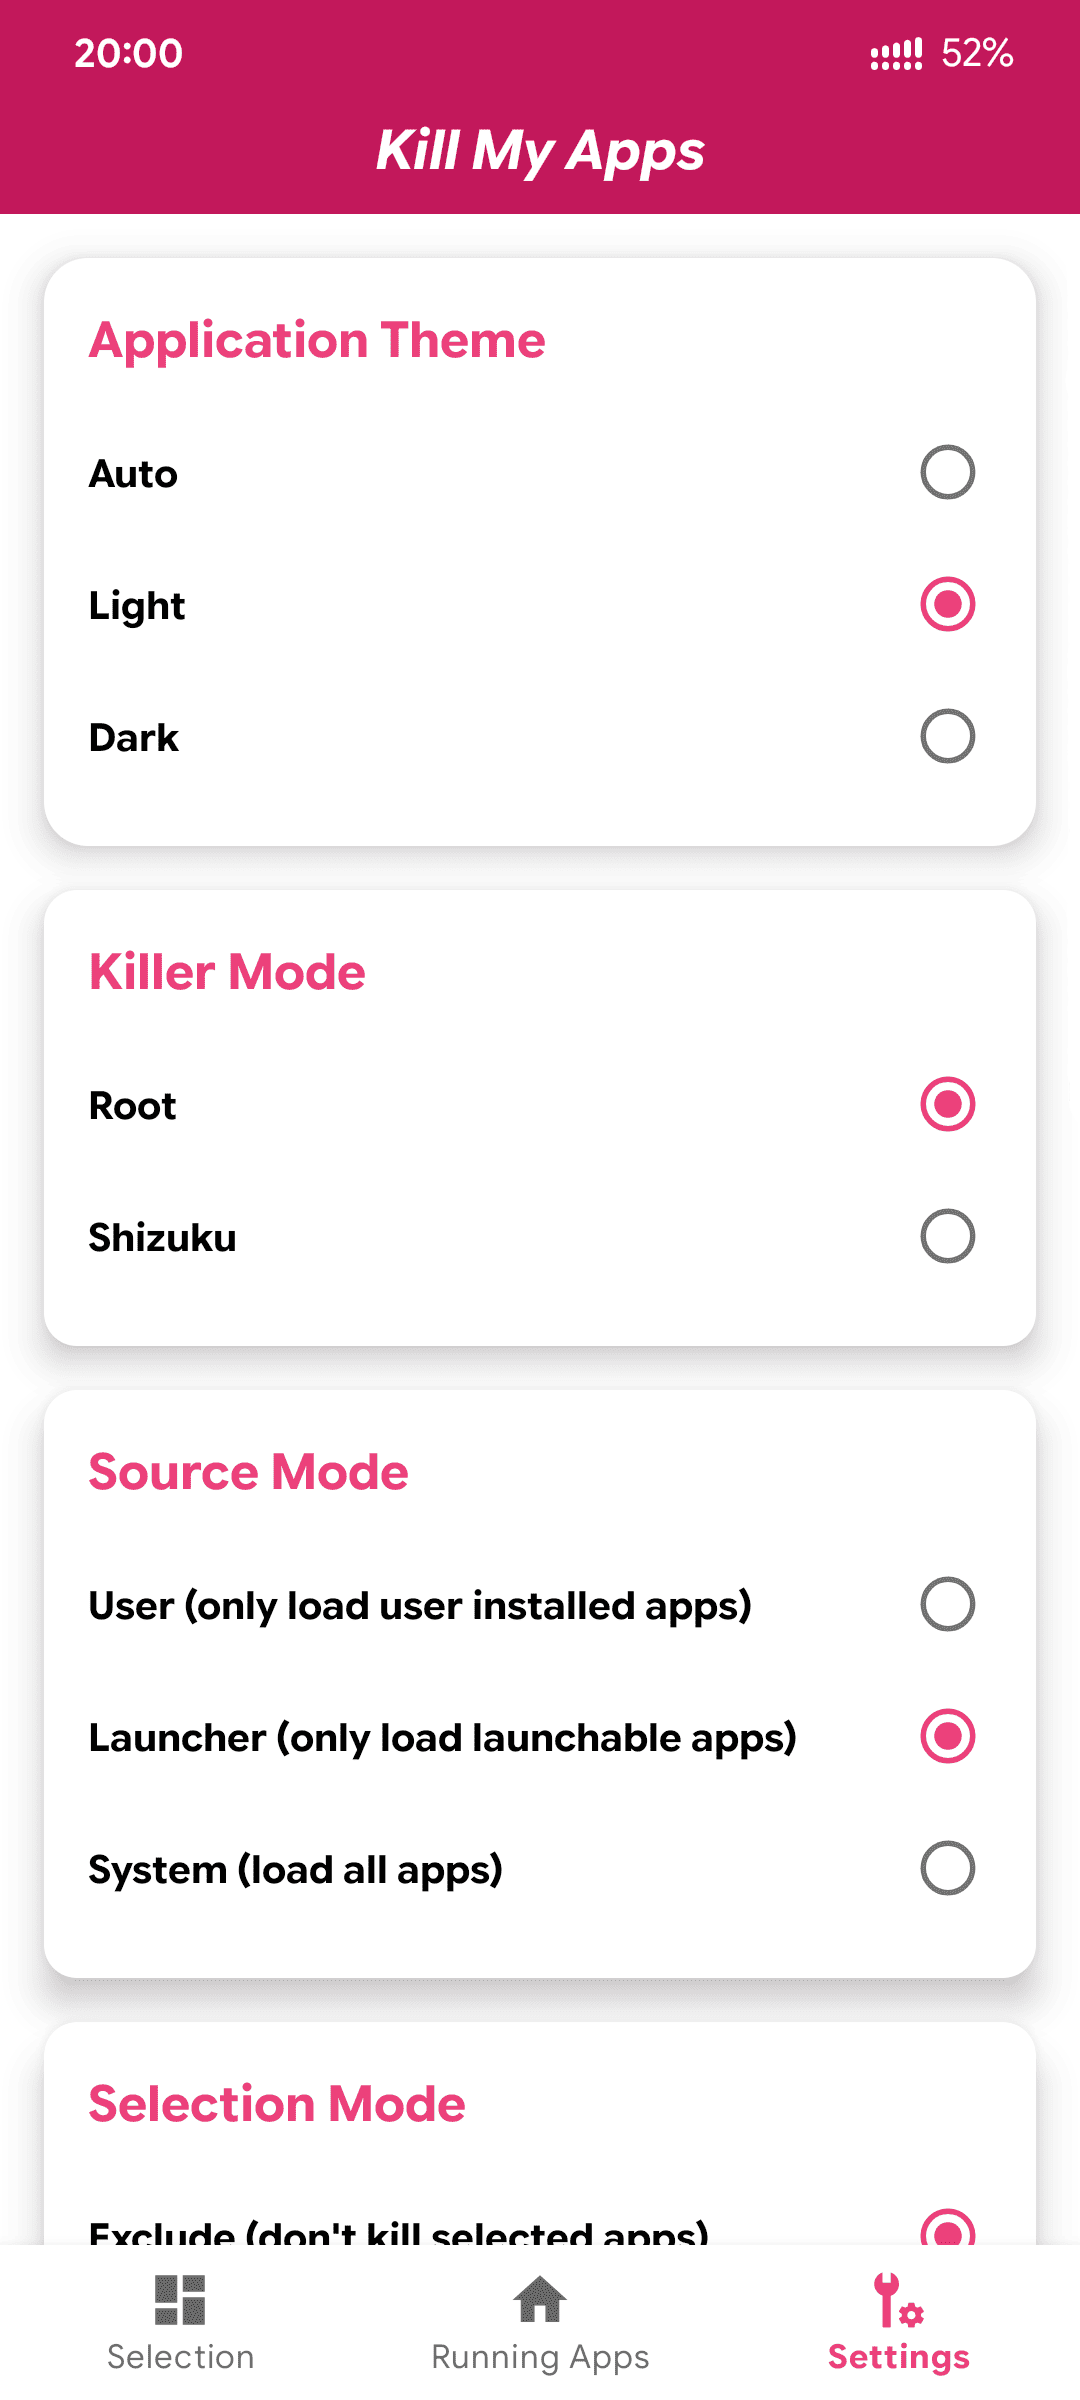
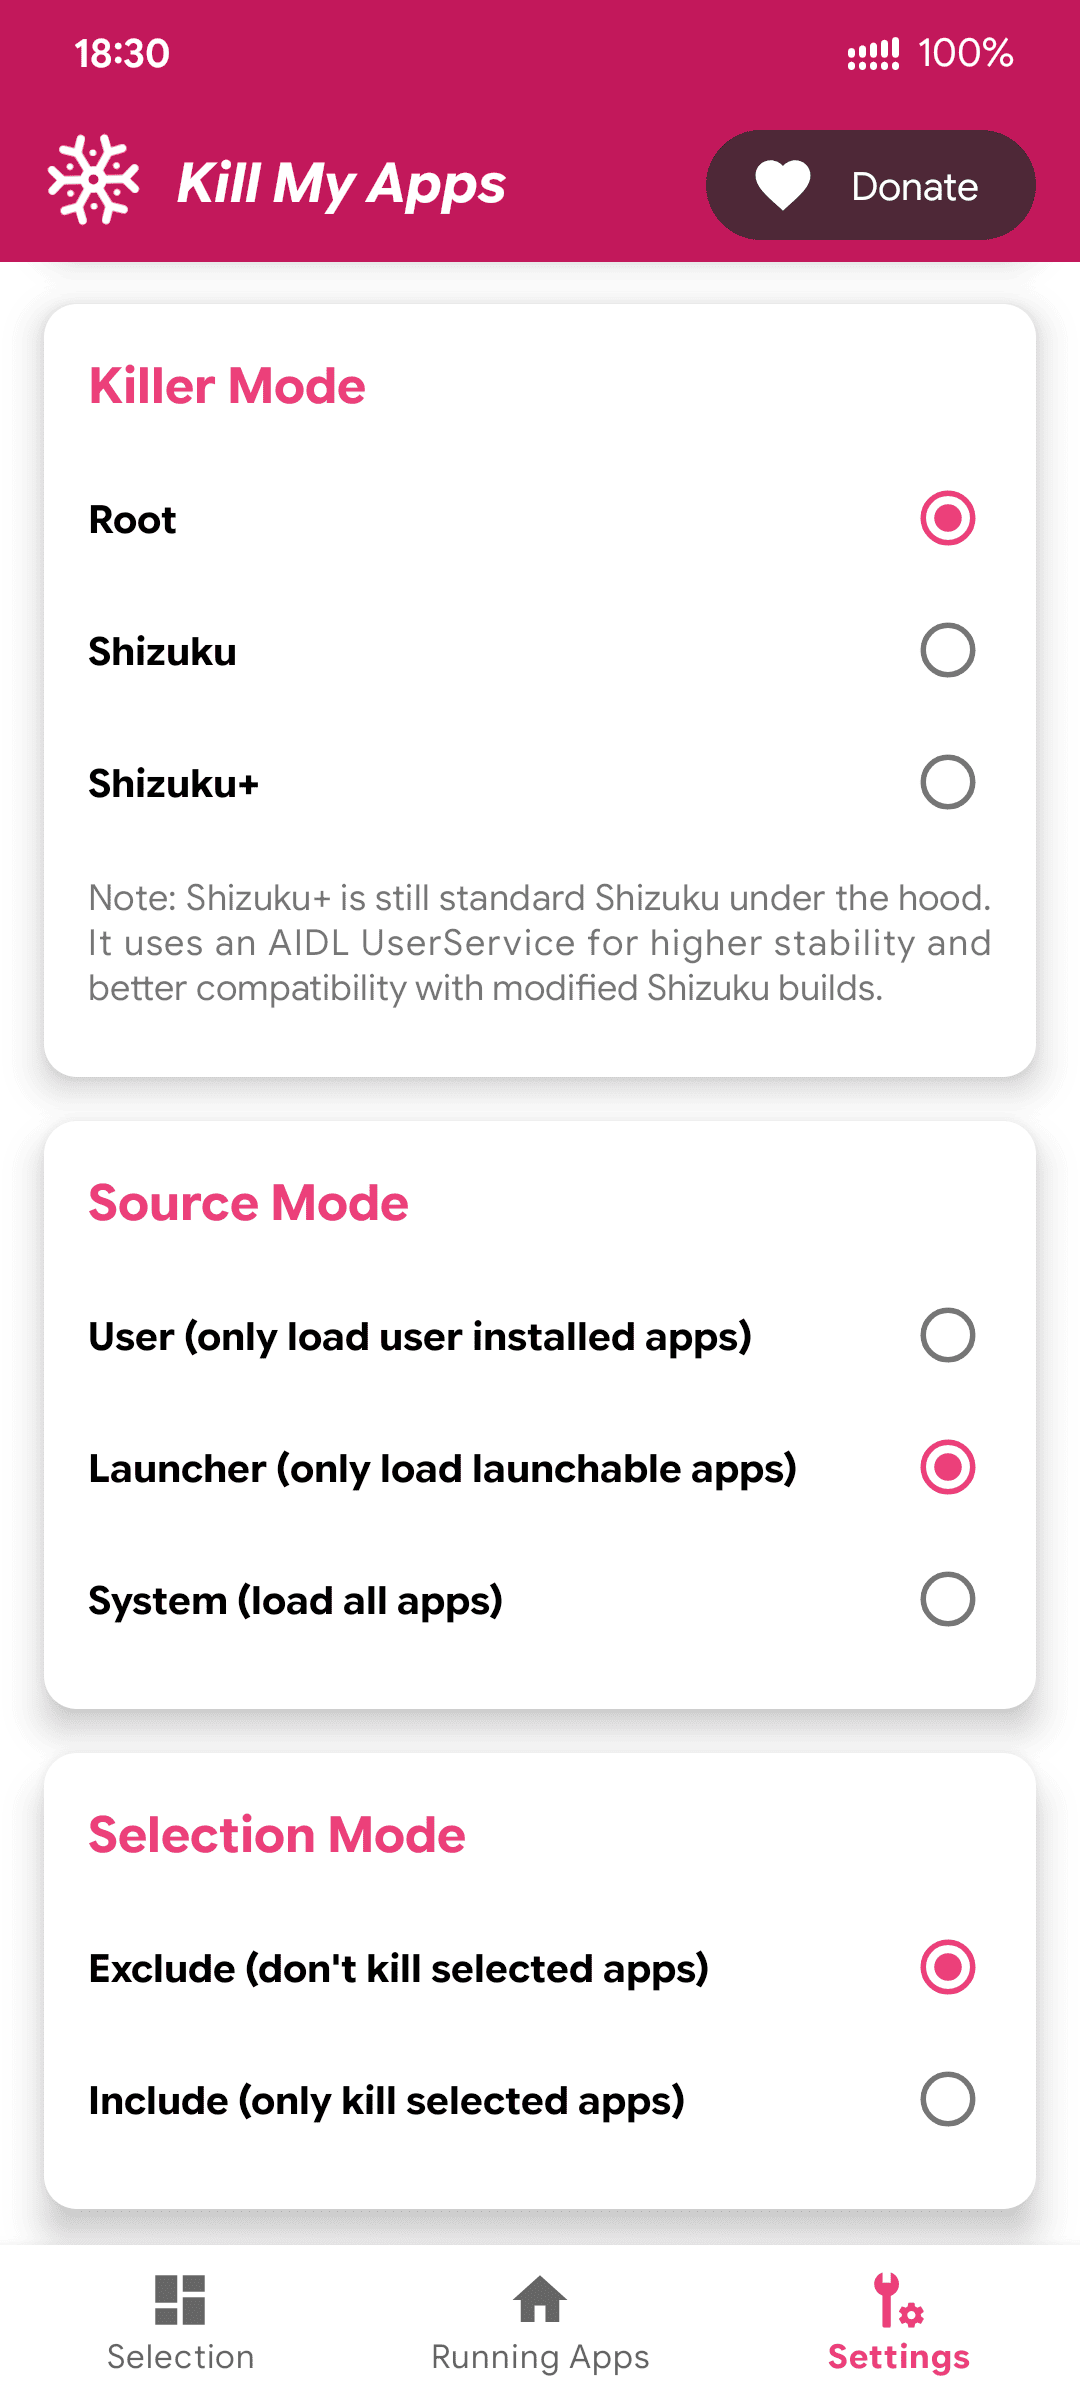
docs(readme): update README and screenshots for v1.5 release

Changed region(s): [[0.0, 0.0, 1.0, 0.625], [0.0306, 0.6562, 0.9778, 0.9375], [0.0611, 0.0, 0.1833, 0.0312]]

diff --git a/README.md b/README.md
@@ -12,7 +12,7 @@
 
 # ❄ Kill My Apps
 
-Kill My Apps is a lightweight utility designed to terminate background processes, helping extend battery life, improve gaming performance, and free up system resources. **It also helps reduce intrusive notifications, unwanted background activity, tracking and telemetry**.
+KillMyApps is a lightweight utility designed to terminate background processes, helping extend battery life, improve gaming performance, and free up system resources. **It also helps reduce intrusive notifications, unwanted background activity, tracking and telemetry**.
 
 
 > [!IMPORTANT]
@@ -22,17 +22,19 @@ Kill My Apps is a lightweight utility designed to terminate background processes
 ## ✨ Features
 
 - ⚡ **One-Tap Kill**: Terminate all running apps instantly with a single tap.
-- 🫧 **Quick Settings Tile**: Kill running apps directly from your notification panel without even opening the app.
 - 🔰 **Killer Mode**: Support Root and Shizuku for an automated app termination process.
 - 🛡 **Source Mode**: Categorize apps by User, Launchable, or System processes, backed by customizable critical app protections.
 - 🔎 **Selection Mode**: Flexible app targeting between Exclude and Include modes.
+- ⏰ **Auto Killer**: Schedule automatic process termination when your screen turns off (with customizable delay) or at a fixed daily time.
+- 🫧 **Quick Settings Tile**: Kill running apps directly from your notification panel without even opening the app.
+- 🧩 **Home Screen Widgets**: Instantly terminate background processes right from your home screen using app widgets.
 - 🔋 **Save Battery**: Reduce battery usage by stopping unnecessary background activities.
 - 🚀 **Boost Performance**: Free up RAM and CPU for high-demand tasks like gaming.
 - 🔒 **Enhance Privacy**: Eliminate unnecessary background activity, tracking and telemetry.
 - 🍃 **Clean UI**: Simple and intuitive Material Design interface.
 
 
-  ## 📸 Screenshots
+## 📸 Screenshots
 
 | Dark Theme | Quick Tile | Light Theme |
 |:---:|:---:|:---:|
